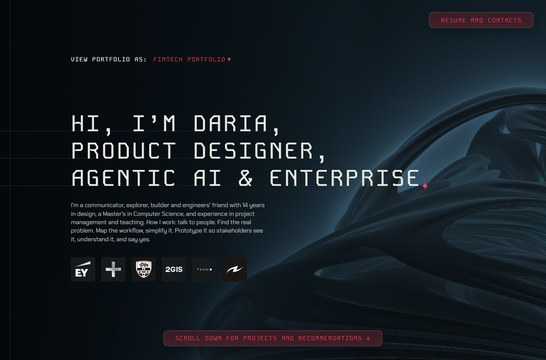
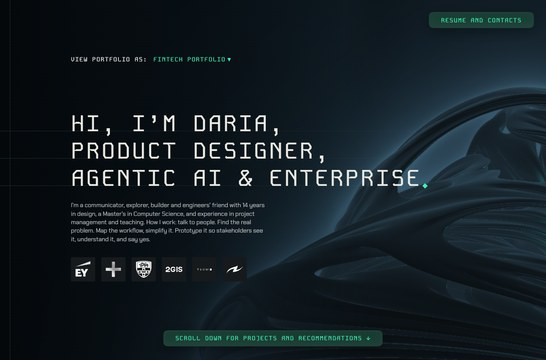
Fintech style: back to the mint-teal key colour and deep green glass buttons

Changed region(s): [[0.2802, 0.9167, 0.7161, 0.9778], [0.7784, 0.0306, 0.9963, 0.0917], [0.2802, 0.1528, 0.4359, 0.1833]]

diff --git a/fintech/index.html b/fintech/index.html
@@ -27,9 +27,9 @@
     --cream: #e7e2c9;
     --bg-glow: #121a1c;
     --ink: #ecebe4;
-    --accent: #ff3e4b;
-    --menu-accent: #ff3e4b;   /* style menu's intro box */
-    --accent-bg: rgba(255, 62, 75, 0.1);
+    --accent: #3ff0b4;
+    --menu-accent: #3ff0b4;   /* style menu's intro box */
+    --accent-bg: rgba(63, 240, 180, 0.1);
     --body-black: #060c0c;    /* project body, black variant */
     --body-grey: #1b2629;     /* recommendation cards */
     --body-light: #11171a;    /* project body, lighter variant */
@@ -708,7 +708,7 @@
      inner glow from below (inset shadows, so the buttons keep their size);
      the floating ones (resume, scroll hint) also cast a shadow */
   .resume, .button, .scroll-hint {
-    background: rgba(71, 28, 38, 0.78);   /* deep red (Figma 393:39) */
+    background: rgba(28, 71, 56, 0.78);   /* deep green (Figma 387:1964) */
     backdrop-filter: blur(20px);
     -webkit-backdrop-filter: blur(20px);
     box-shadow:

diff --git a/tools/build-fintech.py b/tools/build-fintech.py
@@ -14,8 +14,8 @@ from pathlib import Path
 root = Path(__file__).resolve().parent.parent
 html = (root / "index.html").read_text(encoding="utf-8")
 
-ACCENT = "#ff3e4b"            # red key colour (Figma 393:39)
-ACCENT_RGB = "255, 62, 75"
+ACCENT = "#3ff0b4"            # mint-teal key colour
+ACCENT_RGB = "63, 240, 180"
 
 # (homepage text, fintech text). Exact matches; each must occur at least once.
 SKIN = [
@@ -26,7 +26,7 @@ SKIN = [
      'title="Choose another portfolio style">fintech portfolio<'),
     ('data-current="enterprise"', 'data-current="fintech"'),
 
-    # ---- Colour: navy sections, red key colour
+    # ---- Colour: navy sections, mint-teal key colour
     ("--bg: #1e1d19;", "--bg: #121a1c;\n    --hero-bg: #0d1920;\n    --cream: #e7e2c9;"),
     ("--bg-glow: #393938;", "--bg-glow: #121a1c;"),
     ("--ink: #dddcc8;", "--ink: #ecebe4;"),
@@ -106,7 +106,7 @@ SKIN_CSS = """
      inner glow from below (inset shadows, so the buttons keep their size);
      the floating ones (resume, scroll hint) also cast a shadow */
   .resume, .button, .scroll-hint {
-    background: rgba(71, 28, 38, 0.78);   /* deep red (Figma 393:39) */
+    background: rgba(28, 71, 56, 0.78);   /* deep green (Figma 387:1964) */
     backdrop-filter: blur(20px);
     -webkit-backdrop-filter: blur(20px);
     box-shadow:
